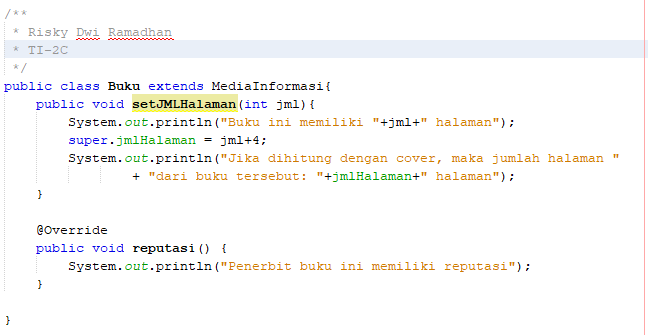
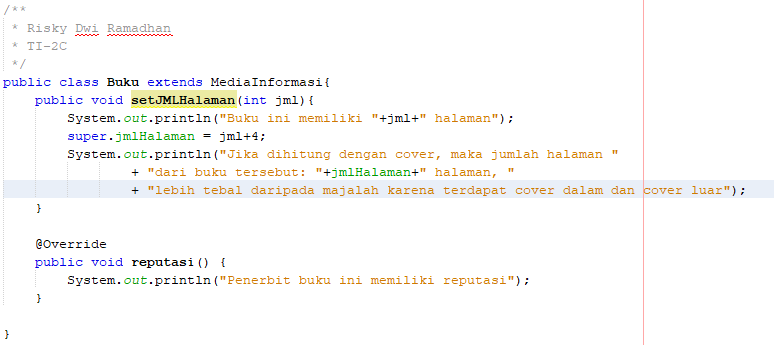
Kuis 2

diff --git a/Kuis 2/Kuis2/src/kuis2/Buku.java b/Kuis 2/Kuis2/src/kuis2/Buku.java
@@ -15,7 +15,8 @@ public class Buku extends MediaInformasi{
         System.out.println("Buku ini memiliki "+jml+" halaman");
         super.jmlHalaman = jml+4;
         System.out.println("Jika dihitung dengan cover, maka jumlah halaman "
-                + "dari buku tersebut: "+jmlHalaman+" halaman");
+                + "dari buku tersebut: "+jmlHalaman+" halaman, "
+                + "lebih tebal daripada majalah karena terdapat cover dalam dan cover luar");
     }
 
     @Override
